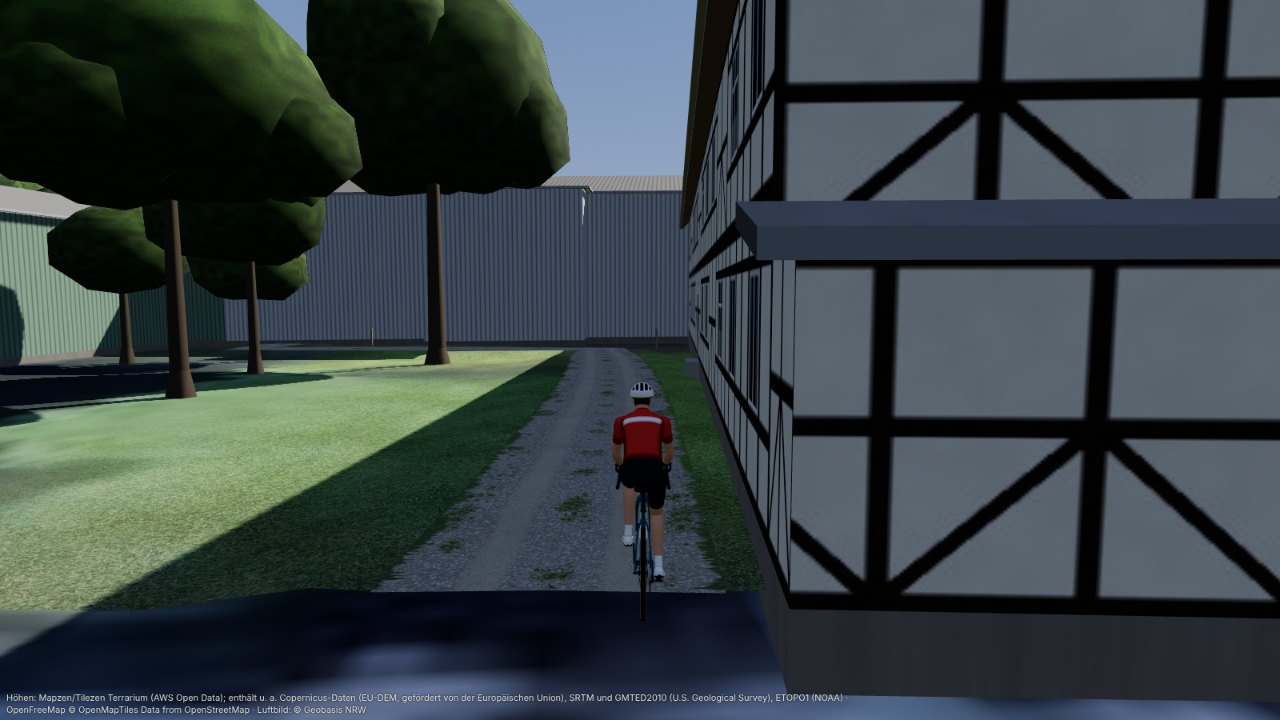
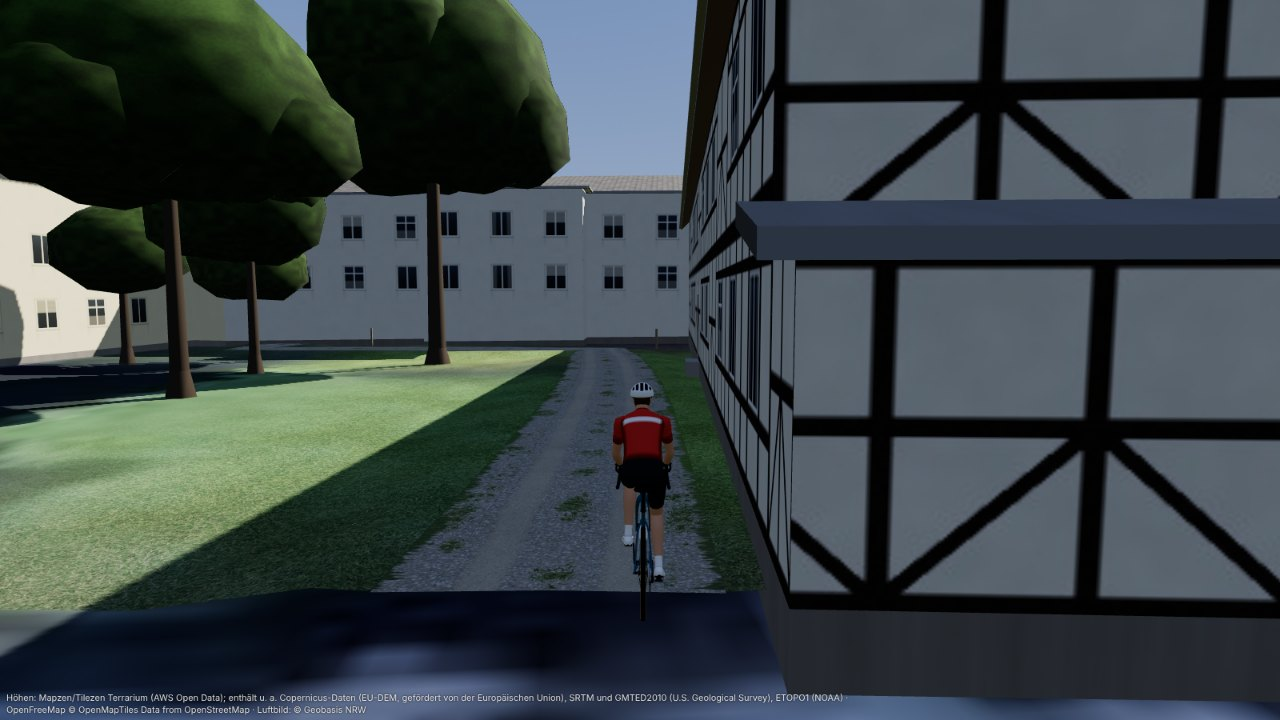
Indoor-Welt: grosse Gebaeude nur in Gewerbe-/Agrarflaechen als Wellblechhalle
Die Vektorkacheln nennen keine Gebaeudeart; grosse Grundrisse ausserhalb von
Gewerbe- und Landwirtschaftsflaechen werden jetzt Putz-/Ziegelbauten mit
Fenstern und Ziegeldach statt fensterloser Wellblechhallen. Bilder von
Altenberg neu gerendert.

Claude-Session: https://claude.ai/code/session_01E3qQ7k8egSkJFmmpoWUzG3

Changed region(s): [[0.0, 0.2444, 0.5625, 0.5194]]

diff --git a/core/src/main/kotlin/de/trailscape/core/indoor/world/BuildingsLayer.kt b/core/src/main/kotlin/de/trailscape/core/indoor/world/BuildingsLayer.kt
@@ -370,7 +370,7 @@ internal class BuildingDesign private constructor(
         }
 
         fun of(b: MapBuilding, ctx: TileContext): BuildingDesign? =
-            of(b, ctx.ground, ctx.track, ctx.level) { e, n, radius -> ctx.aerialMeanAt(e, n, radius) }
+            of(b, ctx.ground, ctx.track, ctx.level, ctx.land) { e, n, radius -> ctx.aerialMeanAt(e, n, radius) }
 
         /**
          * Entwirft ein Gebaeude. `null` fuer Grundrisse, aus denen nichts
@@ -381,6 +381,7 @@ internal class BuildingDesign private constructor(
             ground: GroundSurface,
             track: TrackLine?,
             level: Int,
+            land: LandMap? = null,
             aerial: (Double, Double, Double) -> Int?,
         ): BuildingDesign? {
             val outer0 = FootprintShape.clean(b.rings.firstOrNull() ?: return null) ?: return null
@@ -413,6 +414,10 @@ internal class BuildingDesign private constructor(
             var kind = kindOf(area, width, rnd(1))
             if (!unknown && levels == 0 && b.heightM < 3.6 && kind == BuildingKind.HOUSE) kind = BuildingKind.GARAGE
             if (levels >= 2 && (kind == BuildingKind.GARAGE || kind == BuildingKind.SHED)) kind = BuildingKind.HOUSE
+            // Die Vektorkacheln nennen keine Gebaeudeart. Eine Wellblechhalle ist ein grosser Grundriss nur in
+            // Gewerbe- und Landwirtschaftsflaechen (ohne Landnutzung wie bisher); sonst (Kloster, Schule, Hotel, Wohnblock) ein Putz-/Ziegelbau mit Fenstern.
+            val workLand = (land?.classAt(ce, cn) ?: LandClass.INDUSTRIAL).let { it == LandClass.INDUSTRIAL || it == LandClass.FARMLAND }
+            val civic = kind == BuildingKind.HALL && !workLand
 
             val isRect = sq != null && rings.size == 1 && outer.size == 8
             var form = RoofForm.FLAT
@@ -515,7 +520,7 @@ internal class BuildingDesign private constructor(
             // --- Hoehen ---------------------------------------------------
             var rise = (if (form == RoofForm.PENT) 2 else 1) * hwRef * tanP
             var eaveH = when {
-                unknown -> estimateEave(kind, area, rnd(7), rnd(8))
+                unknown -> if (civic) 6.6 + 3.0 * rnd(8) else estimateEave(kind, area, rnd(7), rnd(8))
                 levels > 0 -> levels * 2.8 + 0.2
                 else -> {
                     // Echte Hoehe = Oberkante Dach. Reicht sie nicht fuer Wand und Dach, wird das Dach flacher.
@@ -571,7 +576,11 @@ internal class BuildingDesign private constructor(
                 BuildingKind.GARAGE -> pick(rnd(10), FacadeStyle.PLASTER to 0.80, FacadeStyle.BRICK to 0.08, FacadeStyle.WOOD to 0.12)
                 BuildingKind.HOUSE -> pick(rnd(10), FacadeStyle.PLASTER to 0.64, FacadeStyle.BRICK to 0.13, FacadeStyle.SLATE to 0.14, FacadeStyle.TIMBER to 0.09)
                 BuildingKind.BARN -> pick(rnd(10), FacadeStyle.PLASTER to 0.30, FacadeStyle.BRICK to 0.22, FacadeStyle.WOOD to 0.30, FacadeStyle.SHEET to 0.18)
-                BuildingKind.HALL -> pick(rnd(10), FacadeStyle.SHEET to 0.70, FacadeStyle.PLASTER to 0.22, FacadeStyle.BRICK to 0.08)
+                BuildingKind.HALL -> if (civic) {
+                    pick(rnd(10), FacadeStyle.PLASTER to 0.68, FacadeStyle.BRICK to 0.22, FacadeStyle.SLATE to 0.10)
+                } else {
+                    pick(rnd(10), FacadeStyle.SHEET to 0.70, FacadeStyle.PLASTER to 0.22, FacadeStyle.BRICK to 0.08)
+                }
             }
             val wallH = eaveH - (if (form == RoofForm.FLAT) 0.0 else thickness)
             var storeys = 0
@@ -590,7 +599,7 @@ internal class BuildingDesign private constructor(
             }
             val cover = when {
                 form == RoofForm.FLAT -> RoofCover.BITUMEN
-                kind == BuildingKind.HALL || style == FacadeStyle.SHEET -> RoofCover.SHEET
+                (kind == BuildingKind.HALL && !civic) || style == FacadeStyle.SHEET -> RoofCover.SHEET
                 kind == BuildingKind.SHED || (form == RoofForm.PENT) -> if (rnd(14) < 0.5) RoofCover.SHEET else RoofCover.BITUMEN
                 kind == BuildingKind.BARN && rnd(14) < 0.3 -> RoofCover.SHEET
                 else -> RoofCover.TILE

diff --git a/docs/indoor/world.md b/docs/indoor/world.md
@@ -16,7 +16,7 @@ Stand: 23.11.2026, Branch `claude/indoor-world`. Vertrag: `docs/indoor.md`
 | Bodentextur | Luftbild unverändert (JPEG Baseline, sonst PNG neu angefragt) oder aus Landnutzung erzeugt; Leerbild-Erkennung |
 | Fahrbahn `route` | je Belag kachelnde Textur, weicher Belagswechsel, Ränder nach Belag und Umgebung (Bankett, Bordstein mit Gehweg, Graskante), Böschungsstreifen, Markierung auf Landstraßen |
 | Straßen `roads` | übrige Straßen und Wege der Karte, flach auf dem Gelände |
-| Gebäude `buildings` | Grundriss × Höhe, Satteldächer/Walmdächer, Anbauten, Fassadenatlas, Stufe 1 grob. Dachfarbe je Gebäude (deterministisch): Ziegelrot, Rotbraun, Braun, Anthrazit, Grau, wo möglich aus der Luftbildfarbe; Grau aus dem Luftbild wird bei Ziegeldächern teils als Rotbraun/Braun gedeutet |
+| Gebäude `buildings` | Grundriss × Höhe, Satteldächer/Walmdächer, Anbauten, Fassadenatlas, Stufe 1 grob. Dachfarbe je Gebäude (deterministisch): Ziegelrot, Rotbraun, Braun, Anthrazit, Grau, wo möglich aus der Luftbildfarbe; Grau aus dem Luftbild wird bei Ziegeldächern teils als Rotbraun/Braun gedeutet. Die Vektorkacheln nennen keine Gebäudeart (kein church/warehouse); große Grundrisse (> 800 m²) werden nur in Gewerbe- und Landwirtschaftsflächen zur Wellblechhalle, sonst zu Putz-/Ziegelbauten mit Fenstern und Ziegeldach (Traufe 6,6–9,6 m, wenn die Daten keine Höhe nennen) |
 | Bäume `trees` | **neu:** Einzelbäume in vier Arten (runder Laubbaum, schlanke Pappel/Birke, gestufte Fichte, kleiner Feld-/Obstbaum) bis 70 m neben der Strecke: verbeulte, überlappende Kronenkörper mit geglätteten Normalen, Größen- und Farbvariation, Wurzelanlauf. Drei Detailstufen, budgetabhängig vom Weg nach außen vergeben. Standorte aus der Kronenbedeckung des Luftbilds bzw. der Landnutzung; dahinter und in Stufe 1 Waldkörper (hügeliges Kronendach, das am Waldrand bis zum Boden abfällt, ohne Wände) |
 | Wasser `water` | **neu:** Wasserspiegel auf Uferhöhe über den Wasserflächen der Karte |
 | Kleinteile `props` | Leitpfosten, Laternen, Ortstafel, Weidezäune, Holzpolter, Bänke, Wegweiser |
@@ -38,7 +38,7 @@ SwiftShader), 1600 × 900.
 
 | Bild | Was zu sehen ist |
 |---|---|
-| `dorf-altenberg-fachwerk.jpg` | Altenberg (NRW), Start: Fachwerkhaus direkt am Weg, Laubbäume, Halle dahinter |
+| `dorf-altenberg-fachwerk.jpg` | Altenberg (NRW), Start: Fachwerkhaus direkt am Weg, Laubbäume, großer Putzbau mit Fensterreihen dahinter |
 | `dorf-altenberg-pflaster.jpg` | Altenberg, Kopfsteinpflaster am Ortsrand, Wegweiser, bewaldeter Hang im Hintergrund |
 | `wald-tharandt.jpg` | Tharandter Wald (Sachsen), Schotterweg durch Mischwald mit gestuften Fichten, Luftbild von GeoSN (Sonne 55°) |
 | `wald-tharandt-luft.jpg` | dieselbe Stelle aus der Drohne: Einzelbäume entlang des Wegs, dahinter die Waldkörper |
